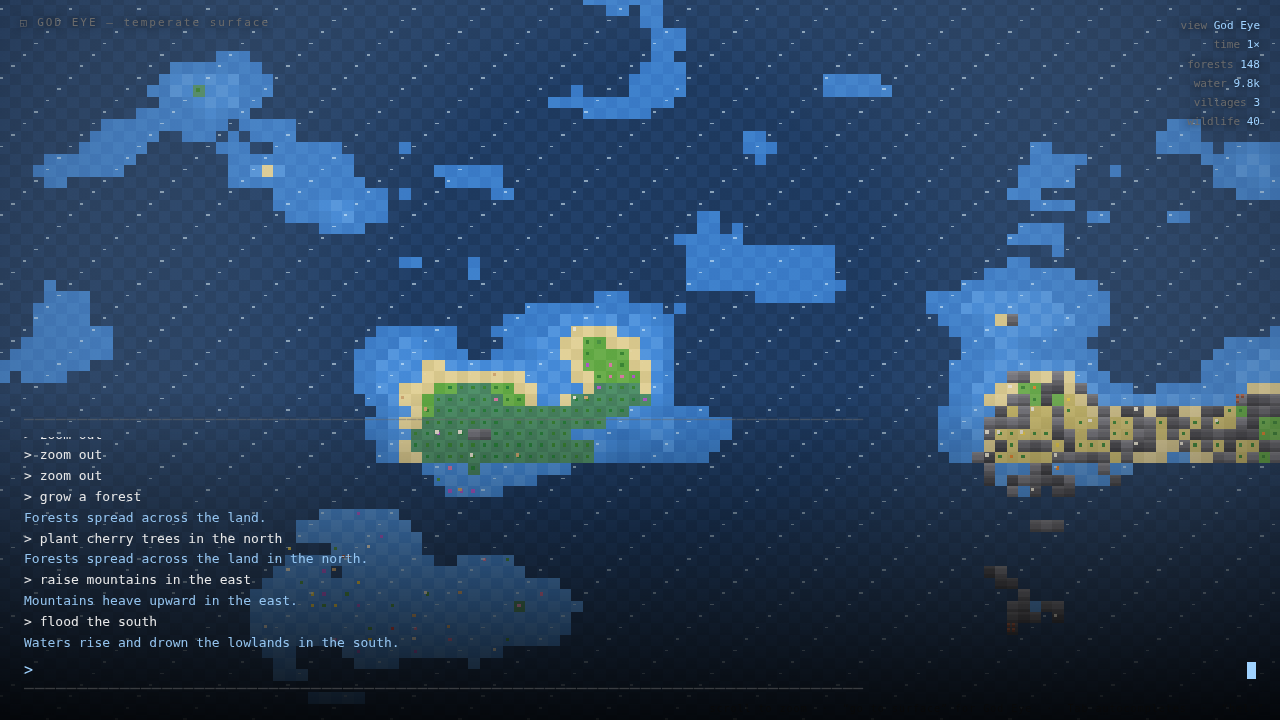
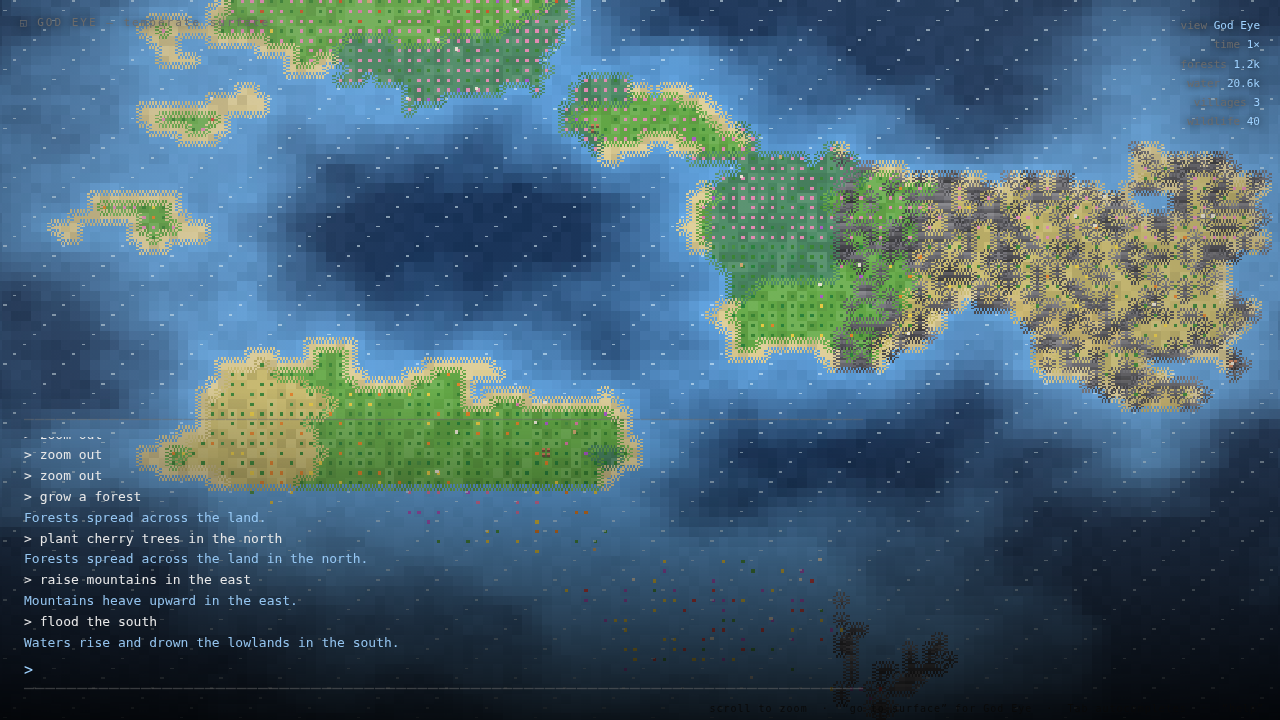
God Eye depth pass: blended biome edges, ocean depth gradient, shadows
Address blockiness/'no depth' feedback (still procedural; asset swap pending):
- Finer grid (192x120, chunk-aligned 24x15) -> smaller tiles, more detail.
- Replace the hard checker with subtle organic per-tile shading.
- Biome-edge dithering so contiguous same-biome tiles blend into one mass
  (dissolves the grid); thin fringe capped to ~3px at all zooms.
- Continuous ocean depth gradient (deep->shallow by elevation) + coastal foam.
- Drop-shadows + rounded canopies under trees/bushes/villages for real depth.
- Static base layer baked to an offscreen cache (rebuilt only on edit/zoom) so
  the heavier blending stays at 60fps; animated objects/water/fire on top.

Claude-Session: https://claude.ai/code/session_012LDsaHNgBVYDGXP3LNda5U

diff --git a/src/surface.js b/src/surface.js
@@ -47,12 +47,31 @@
   };
 
   let MW = 0, MH = 0;
-  let elev, moist, biome, tree, fire, flora;
+  let elev, moist, biome, tree, fire, flora, coast;
   let waterTiles = [];
   let units = [], villages = [];
   let generated = false;
+  let seaLevel = 0.48;
   let camX = 0.5, camY = 0.5, zoom = 1; // view focus (0..1) + zoom factor
   let curTier = 0, lastTier = 0, bounceStart = -10; // LOD bounce-in state
+
+  // static-base cache (terrain blends are expensive, so bake & blit)
+  let baseCache = null, bctx2 = null, baseKey = '', mapVersion = 0;
+  // precomputed per-biome shade variants (organic, non-checker) + ocean depth ramp
+  let SHADES = null, DEEP_RGB, SHAL_RGB;
+  function buildShades() {
+    SHADES = {};
+    for (const k in PAL) {
+      const base = U.mix(U.hexRgb(PAL[k][0]), U.hexRgb(PAL[k][1]), 0.5);
+      SHADES[k] = [-0.09, -0.03, 0.03, 0.09].map((a) => U.rgbStr(U.shade(base, a)));
+    }
+    DEEP_RGB = U.hexRgb('#0e2a52'); SHAL_RGB = U.hexRgb('#5aa0e0');
+  }
+  function tileShade(b, x, y) {
+    if (!SHADES) buildShades();
+    const v = ((hash(x, y, 91) * 4) | 0) & 3;
+    return SHADES[b][v];
+  }
 
   function hash(x, y, s) {
     let h = (Math.imul(x | 0, 374761393) + Math.imul(y | 0, 668265263) + Math.imul(s | 0, 0x9e3779b1)) | 0;
@@ -78,7 +97,7 @@
 
   /* ---------- generation ---------- */
   function generate(planet) {
-    MW = 128; MH = 80;
+    MW = 192; MH = 120;          // finer grid -> smaller tiles, more pixel detail
     const n = MW * MH;
     elev = new Float32Array(n); moist = new Float32Array(n);
     biome = new Uint8Array(n); tree = new Uint8Array(n); fire = new Uint8Array(n); flora = new Uint8Array(n);
@@ -86,6 +105,7 @@
     const seed = planet.seed | 0;
     const cl = planet.climate;
     const sea = cl === 'ocean' ? 0.56 : cl === 'desert' ? 0.40 : cl === 'barren' ? 0.46 : 0.48;
+    seaLevel = sea; mapVersion++;
     const tempBase = ({ ice: -0.5, volcanic: 0.7, desert: 0.6, jungle: 0.45, ocean: 0.2, barren: -0.1, temperate: 0.25 })[cl] ?? 0.25;
     const scale = 5.2;
     for (let y = 0; y < MH; y++) {
@@ -185,19 +205,59 @@
   // LOD tier from tile size T (buffer px): 0 far specks · 1 clusters · 2 full sprites
   function tierFor(T) { return T < 9 ? 0 : T < 16 ? 1 : 2; }
 
+  const isWater = (b) => b === B.DEEP || b === B.CLOSE || b === B.WATER;
+  function waterColor(e) {
+    // continuous ocean depth: deeper -> darker. e ranges roughly [seaLevel-0.25 .. seaLevel]
+    const f = U.clamp((e - (seaLevel - 0.22)) / 0.22, 0, 1);
+    return U.mix(DEEP_RGB, SHAL_RGB, f);
+  }
+
+  // one tile of the STATIC base layer: organic shade, ocean depth, blended edges
   function drawTileBase(ctx, x, y, sx, sy, T) {
+    if (!SHADES) buildShades();
     const i = idx(x, y), b = biome[i];
-    const pal = PAL[b];
-    const checker = ((x + y) & 1);
-    ctx.fillStyle = pal[checker];
+    // base fill
+    if (isWater(b)) {
+      const c = waterColor(elev[i]);
+      const v = (hash(x, y, 91) * 6 | 0) % 3 - 1;        // tiny ripple variation
+      ctx.fillStyle = U.rgbStr([c[0] + v * 3, c[1] + v * 3, c[2] + v * 4]);
+    } else {
+      ctx.fillStyle = tileShade(b, x, y);
+    }
     ctx.fillRect(sx, sy, T + 1, T + 1);
+
+    // mountain shading (3D bevel)
     if (b === B.PEAK || b === B.ROCK) {
-      ctx.fillStyle = 'rgba(255,255,255,0.12)'; ctx.fillRect(sx, sy, T + 1, Math.max(1, T * 0.22));
-      ctx.fillStyle = 'rgba(0,0,0,0.24)'; ctx.fillRect(sx, sy + T - Math.max(1, T * 0.26), T + 1, Math.max(1, T * 0.26));
-    } else if (b === B.DEEP) {
-      ctx.fillStyle = 'rgba(0,0,0,0.18)'; ctx.fillRect(sx, sy, T + 1, T + 1);
-    } else if (b === B.SAND || b === B.DESERT || b === B.SAVANNA) {
-      if ((x * 3 + y) % 4 === 0) { ctx.fillStyle = 'rgba(255,255,255,0.08)'; ctx.fillRect(sx + 1, sy + 1, 1, 1); }
+      ctx.fillStyle = 'rgba(255,255,255,0.13)'; ctx.fillRect(sx, sy, T + 1, Math.max(1, T * 0.3));
+      ctx.fillStyle = 'rgba(0,0,0,0.28)'; ctx.fillRect(sx, sy + T - Math.max(1, T * 0.3), T + 1, Math.max(1, T * 0.3));
+    }
+
+    // ---- blend edges: dither neighbour colour along differing borders ----
+    // (this dissolves the hard tile grid so same-biome areas read as one mass)
+    const step = Math.max(1, T >> 2);
+    for (let d = 0; d < 4; d++) {
+      const nx = x + (d === 2 ? 1 : d === 3 ? -1 : 0);
+      const ny = y + (d === 0 ? -1 : d === 1 ? 1 : 0);
+      if (!inb(nx, ny)) continue;
+      const nb = biome[idx(nx, ny)];
+      if (nb === b || (isWater(nb) && isWater(b))) continue;
+      // colour of the neighbour to bleed in
+      ctx.fillStyle = isWater(nb) ? U.rgbStr(waterColor(elev[idx(nx, ny)])) : tileShade(nb, nx, ny);
+      const w = Math.max(1, Math.min(3, Math.round(T * 0.3)));  // thin fringe at all zooms
+      for (let p = 0; p <= T; p += 2) {                  // 1-bit dither strip
+        if (d === 0) ctx.fillRect(sx + p, sy, 1, w);                    // top
+        else if (d === 1) ctx.fillRect(sx + p, sy + T - w, 1, w);       // bottom
+        else if (d === 2) ctx.fillRect(sx + T - w, sy + p, w, 1);       // right
+        else ctx.fillRect(sx, sy + p, w, 1);                            // left
+      }
+    }
+
+    // coastal foam: lighten land/sand edge touching water
+    if (!isWater(b)) {
+      for (let d = 0; d < 4; d++) {
+        const nx = x + (d === 2 ? 1 : d === 3 ? -1 : 0), ny = y + (d === 0 ? -1 : d === 1 ? 1 : 0);
+        if (inb(nx, ny) && isWater(biome[idx(nx, ny)])) { ctx.fillStyle = 'rgba(255,255,255,0.10)'; break; }
+      }
     }
   }
 
@@ -215,18 +275,27 @@
     if (flora[i]) drawFlora(ctx, x, y, sx, sy, T, flora[i], tier, bs);
   }
 
+  // soft pixel shadow under a sub-tile object
+  function drawShadow(ctx, sx, sy, T, w) {
+    const cx = sx + (T >> 1), by = sy + T - Math.max(1, (T * 0.12) | 0);
+    ctx.fillStyle = 'rgba(0,0,0,0.22)';
+    ctx.fillRect(cx - (w >> 1), by, w, Math.max(1, (T * 0.14) | 0));
+    ctx.fillRect(cx - (w >> 1) + 1, by - 1, Math.max(1, w - 2), 1);
+  }
+
   function drawTree(ctx, x, y, sx, sy, T, ty, tier, bs, t) {
     const c = TREE_COL[ty];
     if (tier === 0) { ctx.fillStyle = c[0]; ctx.fillRect(sx + (T >> 1) - 1, sy + (T >> 1) - 1, 2, 2); return; }
-    // sway: canopy shifts horizontally with a per-tile phase
-    const sway = tier === 2 ? Math.round(Math.sin(t * 1.8 + (x * 13 + y * 7)) * Math.max(1, T * 0.07)) : 0;
-    let cw = Math.max(3, Math.round(T * (tier === 1 ? 0.7 : 0.82)));
+    const sway = tier === 2 ? Math.round(Math.sin(t * 1.8 + (x * 13 + y * 7)) * Math.max(1, T * 0.06)) : 0;
+    let cw = Math.max(3, Math.round(T * (tier === 1 ? 0.72 : 0.9)));
     cw = Math.max(2, Math.round(cw * bs));
-    const bx = sx + ((T - cw) >> 1) + sway, by = sy + Math.max(0, Math.floor(T * 0.04));
-    if (tier === 2) { ctx.fillStyle = '#5a3f28'; ctx.fillRect(sx + (T >> 1) - 1, sy + T - Math.max(2, T * 0.26), 2, Math.max(2, T * 0.26)); }
-    ctx.fillStyle = c[2]; ctx.fillRect(bx, by, cw, cw);
-    ctx.fillStyle = c[0]; ctx.fillRect(bx, by, cw - 1, cw - 1);
-    ctx.fillStyle = c[1]; ctx.fillRect(bx + 1, by + 1, Math.max(1, cw - 3), Math.max(1, cw - 3));
+    drawShadow(ctx, sx, sy, T, Math.max(3, cw - 1));
+    const bx = sx + ((T - cw) >> 1) + sway, by = sy + Math.max(0, Math.floor(T * 0.02));
+    if (tier === 2) { ctx.fillStyle = '#4a3320'; ctx.fillRect(sx + (T >> 1) - 1, sy + T - Math.max(2, T * 0.3), 2, Math.max(2, T * 0.3)); }
+    // rounded canopy: body + clipped corners + highlight
+    ctx.fillStyle = c[2]; ctx.fillRect(bx + 1, by, cw - 2, cw); ctx.fillRect(bx, by + 1, cw, cw - 2);
+    ctx.fillStyle = c[0]; ctx.fillRect(bx + 1, by + 1, cw - 2, cw - 3);
+    ctx.fillStyle = c[1]; ctx.fillRect(bx + 2, by + 2, Math.max(1, cw - 5), Math.max(1, ((cw - 4) >> 1)));
   }
 
   function drawFlora(ctx, x, y, sx, sy, T, ft, tier, bs) {
@@ -235,6 +304,7 @@
     if (tier === 0) { ctx.fillStyle = c[0]; ctx.fillRect(cx - 1, cy - 1, 2, 2); return; }
     if (ft === 6) { // bush
       let w = Math.max(2, Math.round(T * 0.5 * bs));
+      if (tier >= 2) drawShadow(ctx, sx, sy, T, w);
       ctx.fillStyle = c[0]; ctx.fillRect(cx - (w >> 1), cy - (w >> 1), w, w);
       ctx.fillStyle = c[1]; ctx.fillRect(cx - (w >> 1), cy - (w >> 1), Math.max(1, w - 1), Math.max(1, w >> 1));
       return;
@@ -249,12 +319,14 @@
   }
 
   function drawVillage(ctx, sx, sy, T, v) {
+    drawShadow(ctx, sx, sy, T, Math.max(3, T - 2));
     const n = Math.min(4, v.size + 1);
     for (let k = 0; k < n; k++) {
       const ox = sx + (k % 2) * (T >> 1), oy = sy + ((k / 2) | 0) * (T >> 1);
       const w = Math.max(2, T >> 1) - 1;
-      ctx.fillStyle = '#7a3b2a'; ctx.fillRect(ox, oy, w, w);
-      ctx.fillStyle = '#b35a3c'; ctx.fillRect(ox, oy, w, Math.max(1, w >> 1));
+      ctx.fillStyle = '#6b4636'; ctx.fillRect(ox, oy + (w >> 1), w, Math.max(1, w >> 1)); // wall
+      ctx.fillStyle = '#b35a3c'; ctx.fillRect(ox, oy, w, Math.max(1, w >> 1));            // roof
+      ctx.fillStyle = '#c97a52'; ctx.fillRect(ox, oy, w, 1);                              // roof highlight
     }
   }
 
@@ -345,7 +417,7 @@
       rain: () => ops.rain(p), flowers: () => ops.flowers(p),
     };
     if (!map[v]) return false;
-    map[v]();
+    map[v](); mapVersion++;
     return true;
   }
 
@@ -394,7 +466,7 @@
         if (inb(nx, ny)) { const b = biome[idx(nx, ny)]; if (b !== B.DEEP && b !== B.WATER && b !== B.CLOSE && b !== B.LAVA) { u.x = nx; u.y = ny; } }
       }
     }
-    void changed;
+    if (changed) mapVersion++;
   }
 
   /* ---------- render (direct crisp tiles, no downscale) ---------- */
@@ -403,9 +475,9 @@
     if (!generated) generate(GC.World.planet);
     indexVillages();
 
-    // integer tile size in buffer px: ~whole map across at zoom 1, bigger when zoomed in
-    const baseAcross = 116;
-    const T = Math.max(5, Math.round((W / baseAcross) * zoom));
+    // integer tile size in buffer px (smaller tiles -> more pixel detail)
+    const baseAcross = 130;
+    const T = Math.max(4, Math.round((W / baseAcross) * zoom));
     // camera: top-left tile offset so (camX,camY) of the map sits at view center
     const viewTilesX = W / T, viewTilesY = H / T;
     let originX = camX * MW - viewTilesX / 2;
@@ -431,15 +503,25 @@
     const bounce = bp >= 1 ? 1 : easeOutBack(bp);
     const env = { t, tier: curTier, bounce };
 
-    // pass 1: biome bases
-    for (let ry = 0; ry < rows; ry++) {
-      const ty = y0 + ry; if (ty < 0 || ty >= MH) continue;
-      const sy = Math.round(offY + ry * T);
-      for (let rx = 0; rx < cols; rx++) {
-        const tx = x0 + rx; if (tx < 0 || tx >= MW) continue;
-        drawTileBase(ctx, tx, ty, Math.round(offX + rx * T), sy, T);
+    // pass 1: STATIC base layer (biomes + blended edges + ocean depth) — cached
+    const key = mapVersion + '|' + T + '|' + W + '|' + H + '|' + camX.toFixed(3) + '|' + camY.toFixed(3);
+    if (key !== baseKey) {
+      if (!baseCache) { baseCache = document.createElement('canvas'); bctx2 = baseCache.getContext('2d'); }
+      if (baseCache.width !== W || baseCache.height !== H) { baseCache.width = W; baseCache.height = H; }
+      bctx2.imageSmoothingEnabled = false;
+      bctx2.fillStyle = '#070a12'; bctx2.fillRect(0, 0, W, H);
+      for (let ry = 0; ry < rows; ry++) {
+        const ty = y0 + ry; if (ty < 0 || ty >= MH) continue;
+        const sy = Math.round(offY + ry * T);
+        for (let rx = 0; rx < cols; rx++) {
+          const tx = x0 + rx; if (tx < 0 || tx >= MW) continue;
+          drawTileBase(bctx2, tx, ty, Math.round(offX + rx * T), sy, T);
+        }
       }
+      baseKey = key;
     }
+    ctx.drawImage(baseCache, 0, 0);
+
     // pass 2: objects (trees/flora/villages) on top, so they overlap neighbours cleanly
     for (let ry = 0; ry < rows; ry++) {
       const ty = y0 + ry; if (ty < 0 || ty >= MH) continue;
@@ -508,7 +590,7 @@
   GC.surface = {
     render, tick, enter, invalidate, stats,
     handle: function (it) { return S_handle(it); },
-    zoomBy: function (f) { zoom = U.clamp(zoom * f, 1, 6); },
-    atMin: function () { return zoom <= 1.001; },
+    zoomBy: function (f) { zoom = U.clamp(zoom * f, 0.7, 6); },
+    atMin: function () { return zoom <= 0.72; },
   };
 })(window.GC = window.GC || {});
